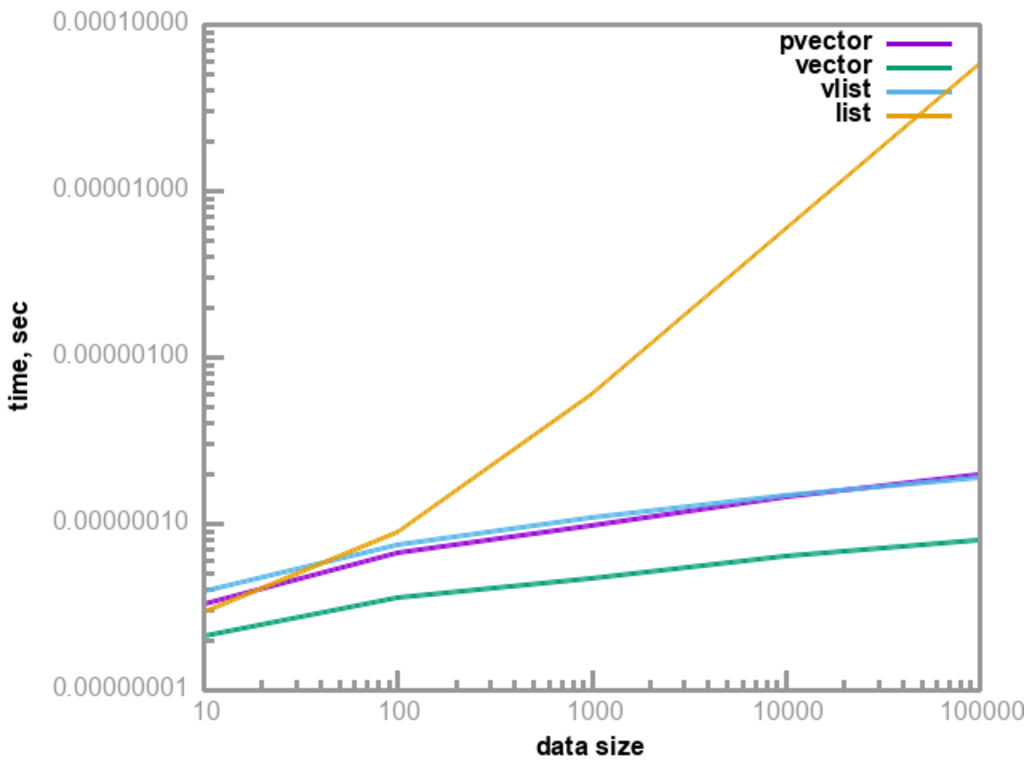
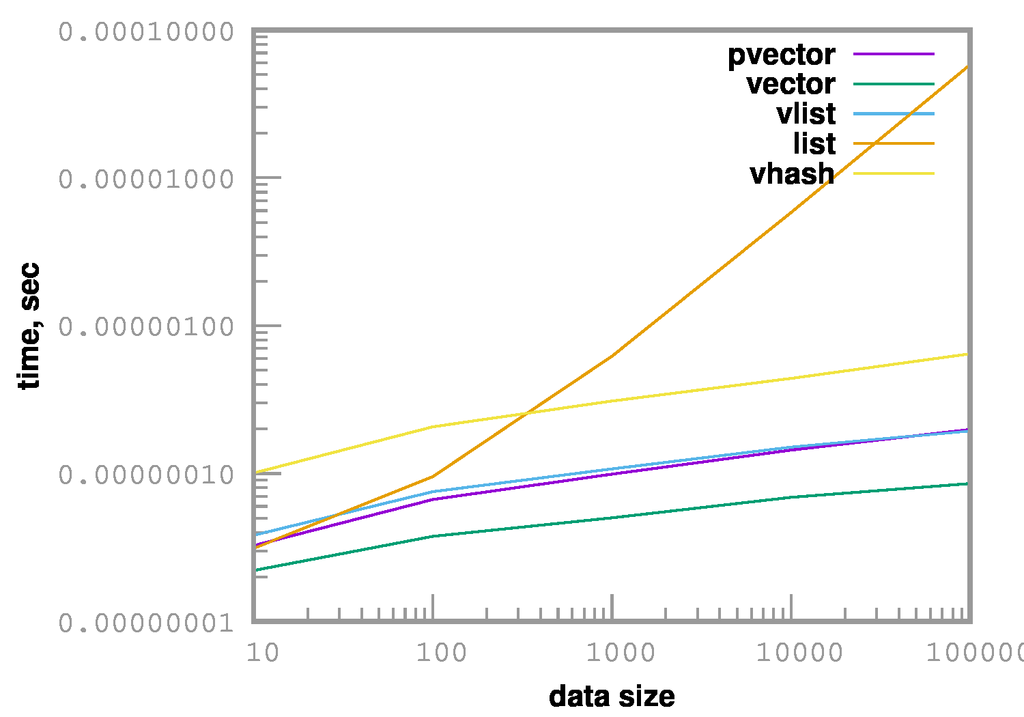
Random writes

diff --git a/README.md b/README.md
@@ -16,15 +16,21 @@ The absence of an efficient Clojue-like purelly functional vector in the Guile S
 
 #### With linked list
 
-[![Random reads, pvector vs. vector, vlist and linked list](https://github.com/yashrk/pvector/blob/main/benchmarks/random-reads-short.png)](https://github.com/yashrk/pvector/blob/main/benchmarks/random-reads-short.png)
+[![Random reads, pvector vs. vector, vlist, vhash and linked list](https://github.com/yashrk/pvector/blob/main/benchmarks/random-reads-short.png)](https://github.com/yashrk/pvector/blob/main/benchmarks/random-reads-short.png)
 
-Reads from random index, average time in second (lesser is better), with various element count. Performance of persistent vector, scheme arrays (SRFI-43), vlists, linked lists. Logarithmic scale on both axis.
+Reads from random index, average time in second (lesser is better), with various element count. Performance of persistent vector, scheme arrays (SRFI-43), vlists, vhashes, linked lists. Logarithmic scale on both axis. Vlist is slightly better than pvector, but it doesn't have setter for the random index. Vector is imperative.
 
 #### Without linked list
 
 [![Random reads, pvector vs. vlist and vector](https://github.com/yashrk/pvector/blob/main/benchmarks/random-reads.png)](https://github.com/yashrk/pvector/blob/main/benchmarks/random-reads.png)
 
-Reads from random index, average time in second (lesser is better), with various element count. Performance of persistent vector, scheme arrays (SRFI-43), vlists (linked lists are unacceptably slow with element count involved). Logarithmic scale on data size axis.
+Reads from random index, average time in second (lesser is better), with various element count. Performance of persistent vector, scheme arrays (SRFI-43), vlists, vhashes (linked lists are unacceptably slow with element count involved). Logarithmic scale on data size axis. Again, vlists can't update a random element in the middle of the data structure.
+
+### Change of an element at random index
+
+[![Random writes, pvector vs. vhash and vector](https://github.com/yashrk/pvector/blob/main/benchmarks/random-writes.png)](https://github.com/yashrk/pvector/blob/main/benchmarks/random-writes.png)
+
+Vhash is better than pvector, but see the data for random reads.
 
 ## Sources of inspiration
 
